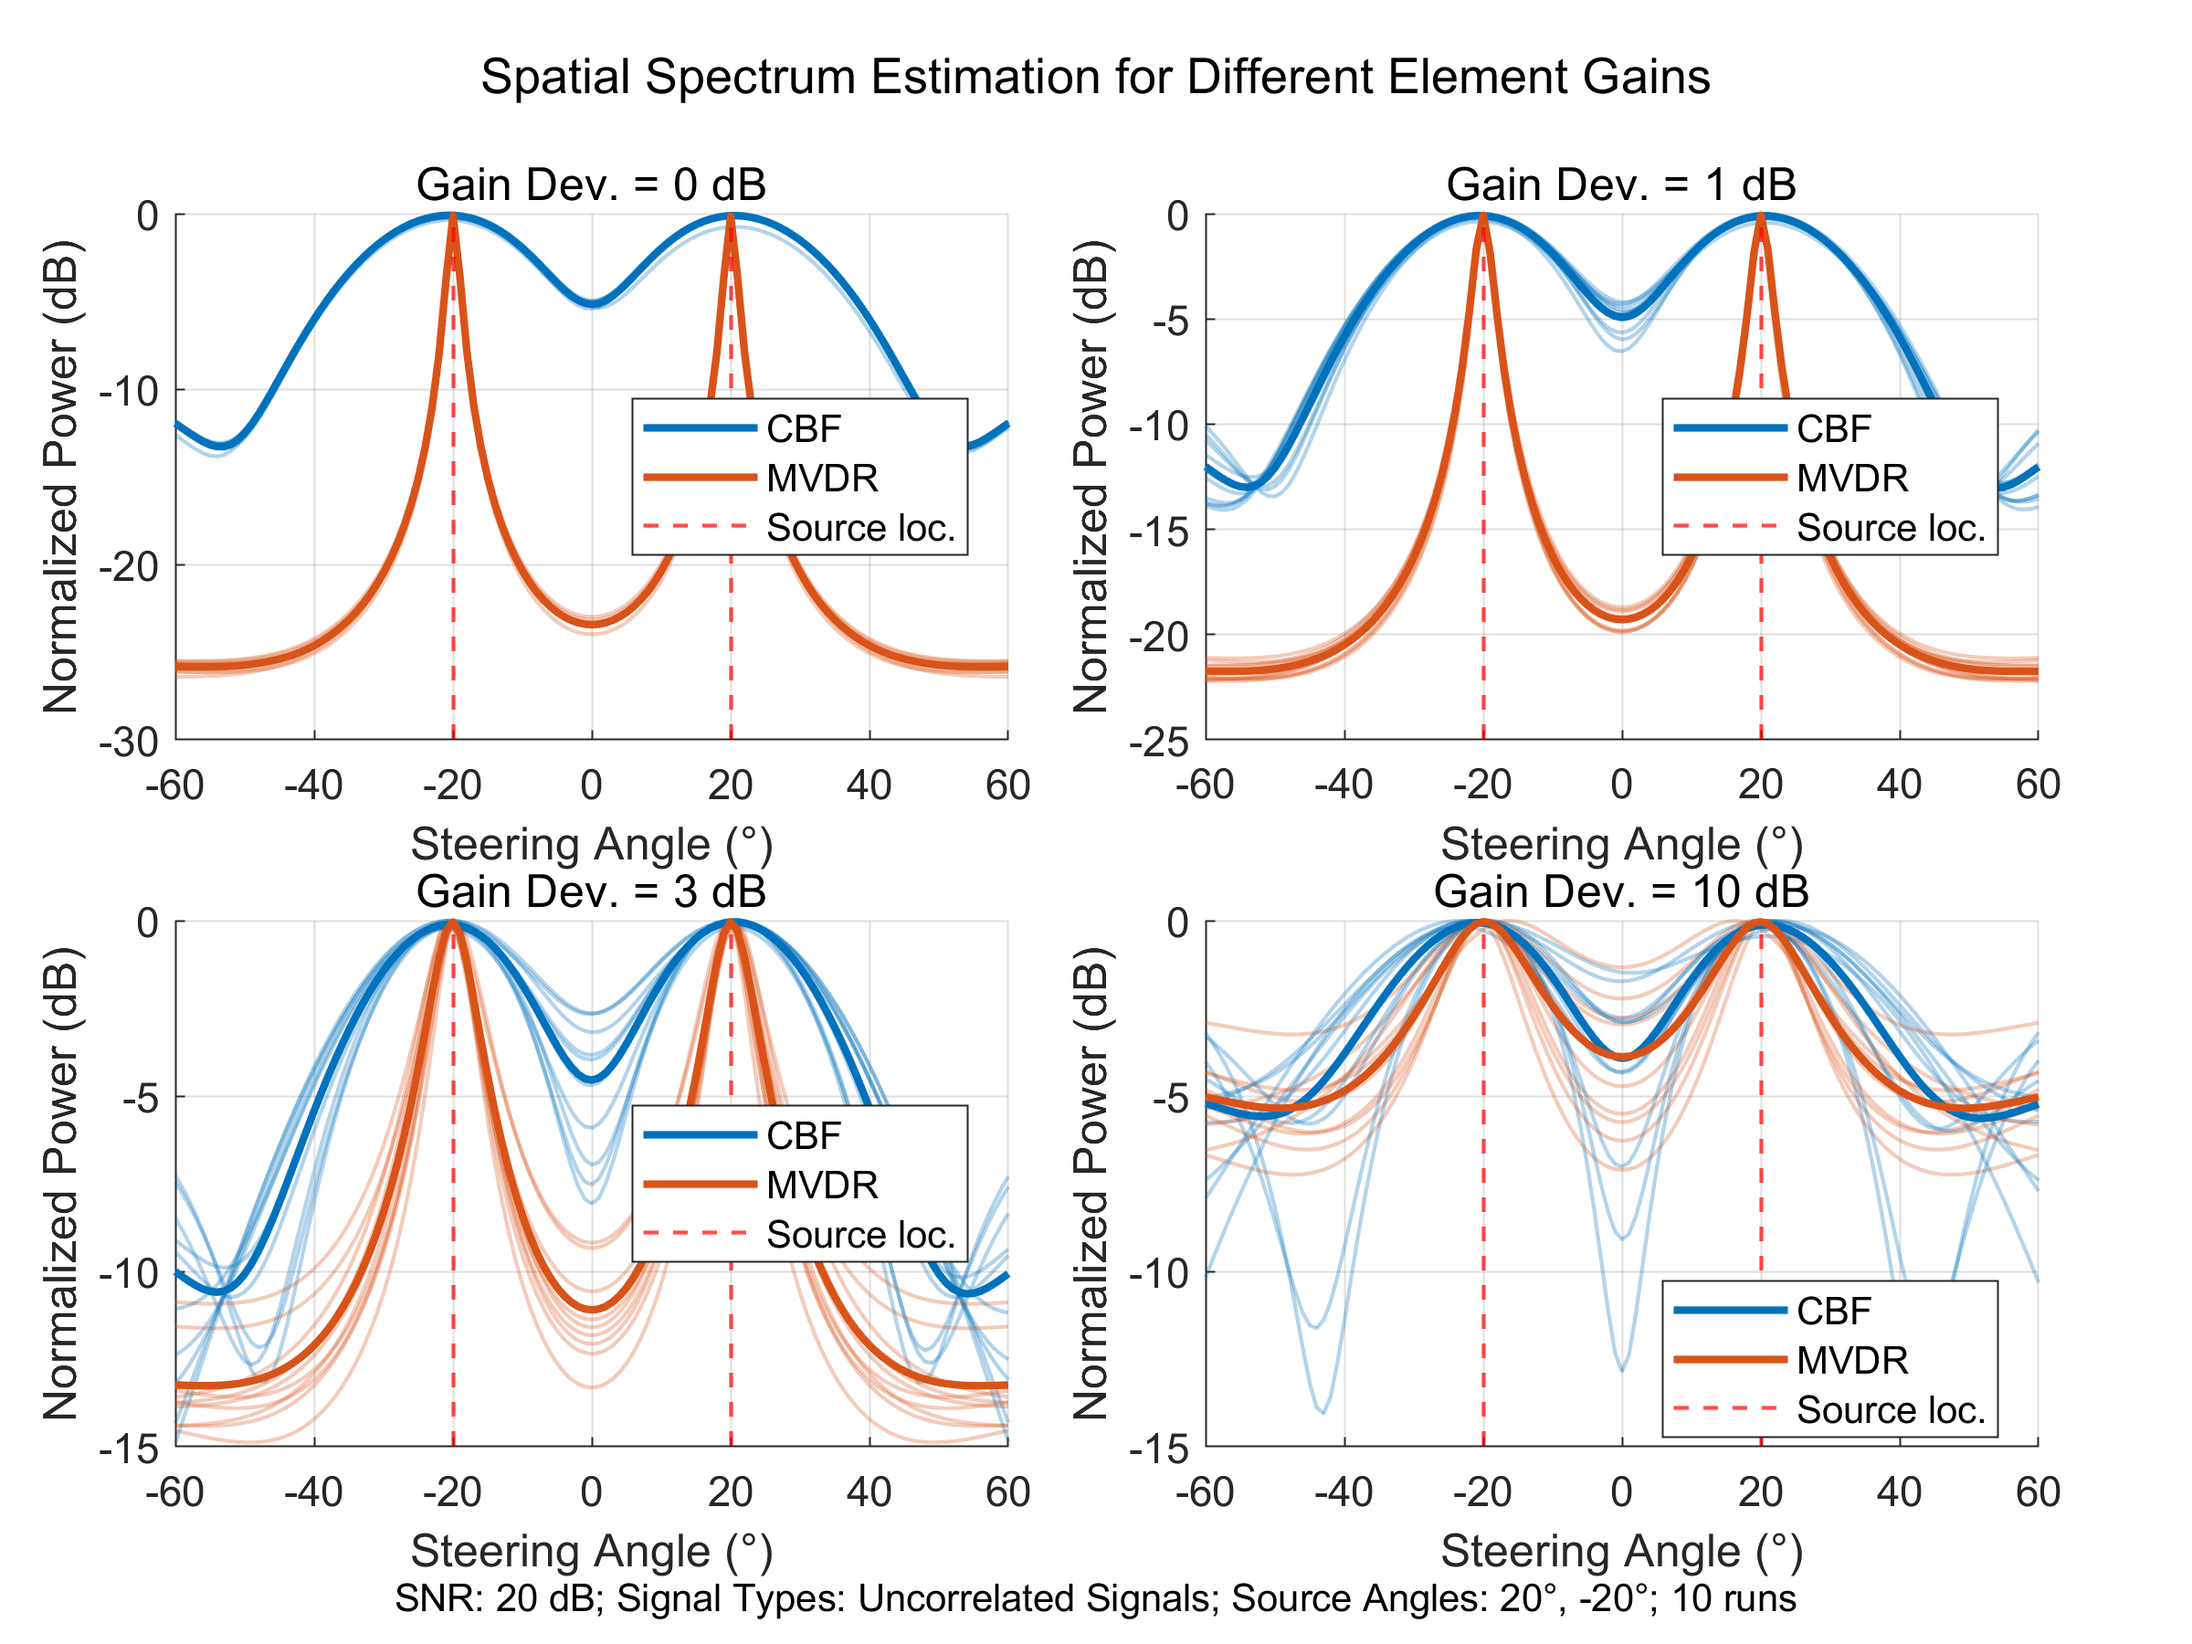
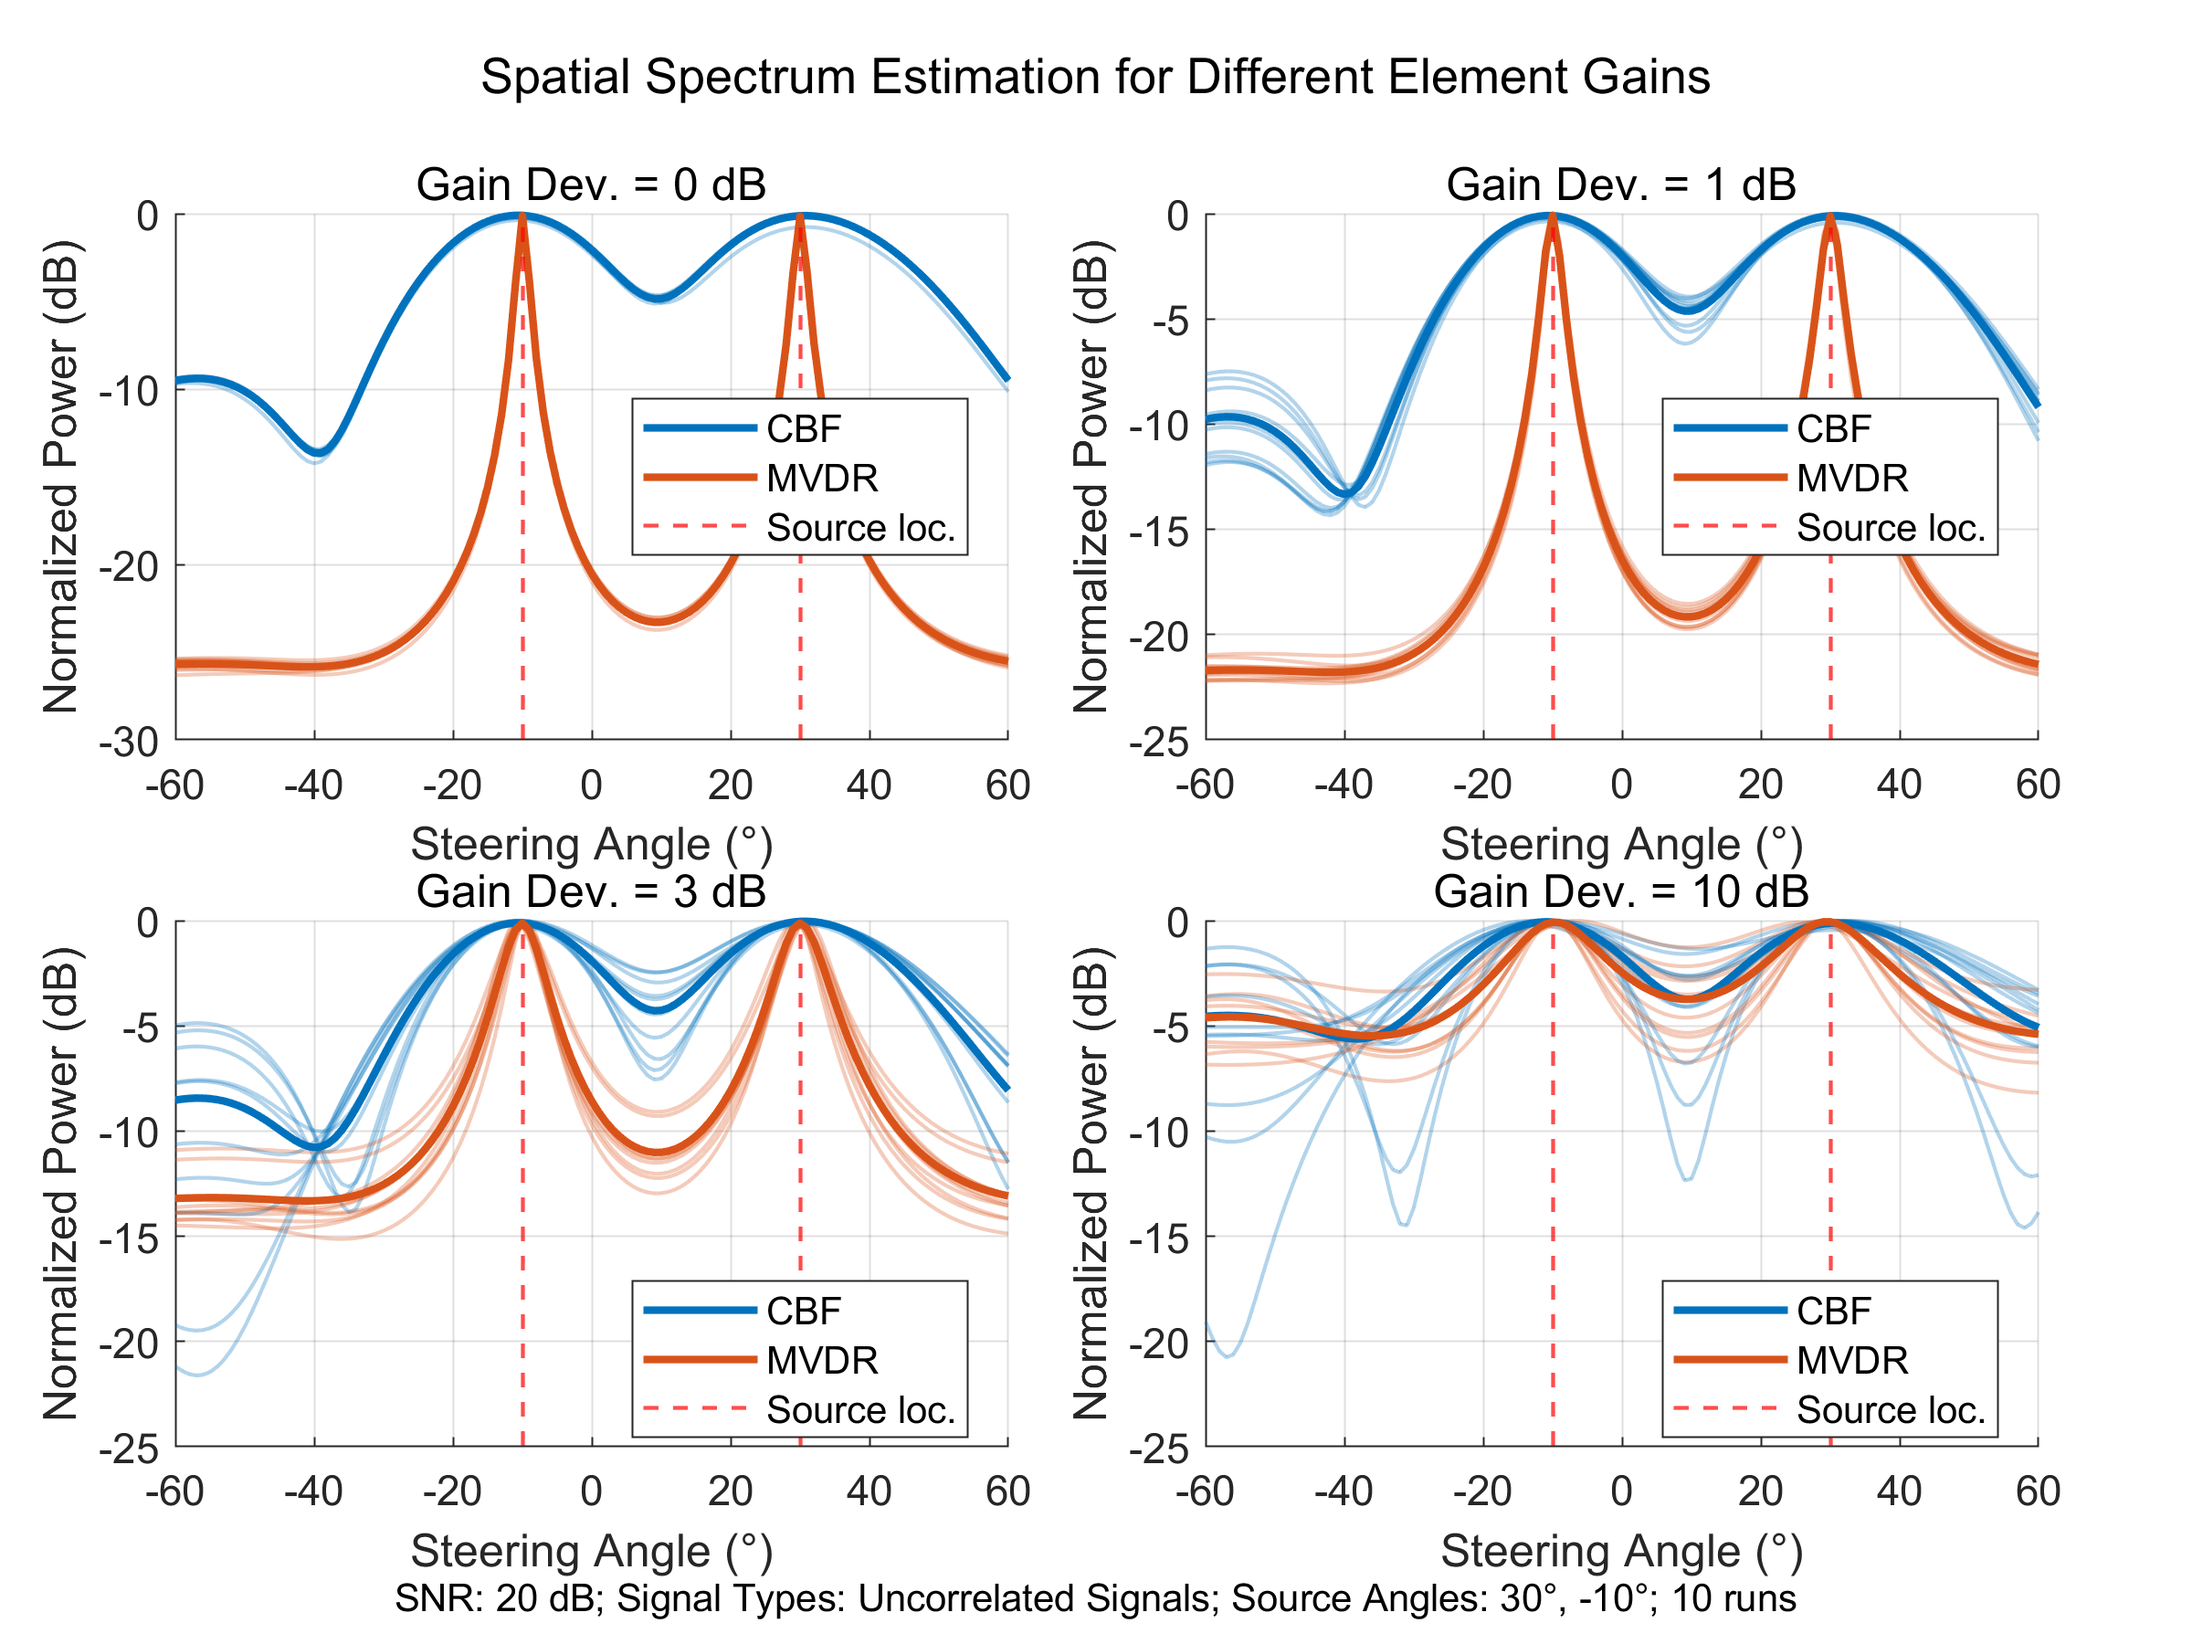
make sources non-symmetrical

diff --git a/dsp/scripts/cbf_mvdr_sim.m b/dsp/scripts/cbf_mvdr_sim.m
@@ -49,8 +49,8 @@ for idx = 1:length(snr_values)
     s2 = sqrt(nSignal) * randn(Nsamp, 1); % Signal 2
 
     % Source angles
-    ang1 = 20;   % First signal angle
-    ang2 = -20;  % Second signal angle
+    ang1 = 30;   % First signal angle
+    ang2 = -10;  % Second signal angle
 
     % Steering vectors
     sv1 = steering_vector(fc, ang1);
@@ -100,7 +100,7 @@ sgtitle('Spatial Spectrum Estimation for Different SNRs', 'FontSize', FontSize +
 
 % Add a note to the figure below the subplots with adjusted position
 annotation('textbox', [0, 0, 1, 0.05], ...
-    'String', 'Signal Types: Uncorrelated Signals; Source Angles: 20°, -20°', ...
+    'String', 'Signal Types: Uncorrelated Signals; Source Angles: 30°, -10°', ...
     'EdgeColor', 'none', 'HorizontalAlignment', 'center', 'FontSize', FontSize - 2);
 
 % Save the figure
@@ -109,7 +109,7 @@ print(figure_snr, fullfile(save_path, 'Spatial_Spectrum_SNRs.png'), '-dpng', '-r
 
 %% Varying Source Locations
 source_spacing_values = [10, 20, 30, 40]; % Degrees between sources
-center_angle = 0; % Center angle
+center_angle = 10; % Center angle
 nPower = nSignal / (10 ^ (20 / 10)); % Fixed SNR of 20 dB
 
 figure_spacing = figure;
@@ -251,8 +251,8 @@ for idx = 1:length(signal_types)
     end
 
     % Source angles
-    ang1 = 20;
-    ang2 = -20;
+    ang1 = 30;
+    ang2 = -10;
 
     % Steering vectors
     sv1 = steering_vector(fc, ang1);
@@ -302,7 +302,7 @@ sgtitle('Spatial Spectrum Estimation for Different Signal Types', 'FontSize', Fo
 
 % Add a note to the figure below the subplots
 annotation('textbox', [0, 0, 1, 0.05], ...
-    'String', ['SNR: 20 dB; Source Angles: 20°, -20°; Burst length: 30/1024 samples; Correlation \rho: ' num2str(rho)], ...
+    'String', ['SNR: 20 dB; Source Angles: 30°, -10°; Burst length: 30/1024 samples; Correlation \rho: ' num2str(rho)], ...
     'EdgeColor', 'none', 'HorizontalAlignment', 'center', 'FontSize', FontSize - 2);
 
 % Save the figure
@@ -346,8 +346,8 @@ for idx = 1:length(gain_max_deviation_values)
         s2 = sqrt(nSignal) * randn(Nsamp, 1); % Signal 2
 
         % Source angles
-        ang1 = 20;   % First signal angle
-        ang2 = -20;  % Second signal angle
+        ang1 = 30;   % First signal angle
+        ang2 = -10;  % Second signal angle
 
         % Steering vectors
         sv1 = gain_dev .* steering_vector(fc, ang1);
@@ -422,7 +422,7 @@ sgtitle('Spatial Spectrum Estimation for Different Element Gains', 'FontSize', F
 
 % Add a note to the figure below the subplots with adjusted position
 annotation('textbox', [0, 0, 1, 0.05], ...
-    'String', ['SNR: 20 dB; Signal Types: Uncorrelated Signals; Source Angles: 20°, -20°; ', num2str(N_runs), ' runs'], ...
+    'String', ['SNR: 20 dB; Signal Types: Uncorrelated Signals; Source Angles: 30°, -10°; ', num2str(N_runs), ' runs'], ...
     'EdgeColor', 'none', 'HorizontalAlignment', 'center', 'FontSize', FontSize - 2);
 
 % Save the figure
@@ -459,8 +459,8 @@ for idx = 1:length(rho_values)
     fprintf('Desired correlation: %.2f, Estimated correlation: %.2f\n', rho, rho_est);
 
     % Source angles
-    ang1 = 20;
-    ang2 = -20;
+    ang1 = 30;
+    ang2 = -10;
 
     % Steering vectors
     sv1 = steering_vector(fc, ang1);
@@ -511,7 +511,7 @@ sgtitle('Spatial Spectrum Estimation for Different Correlation Coefficients', 'F
 
 % Add a note to the figure below the subplots
 annotation('textbox', [0, 0, 1, 0.05], ...
-    'String', 'SNR: 20 dB; Source Angles: 20°, -20°; Signal types: CW', ...
+    'String', 'SNR: 20 dB; Source Angles: 30°, -10°; Signal types: CW', ...
     'EdgeColor', 'none', 'HorizontalAlignment', 'center', 'FontSize', FontSize - 2);
 
 % Save the figure
